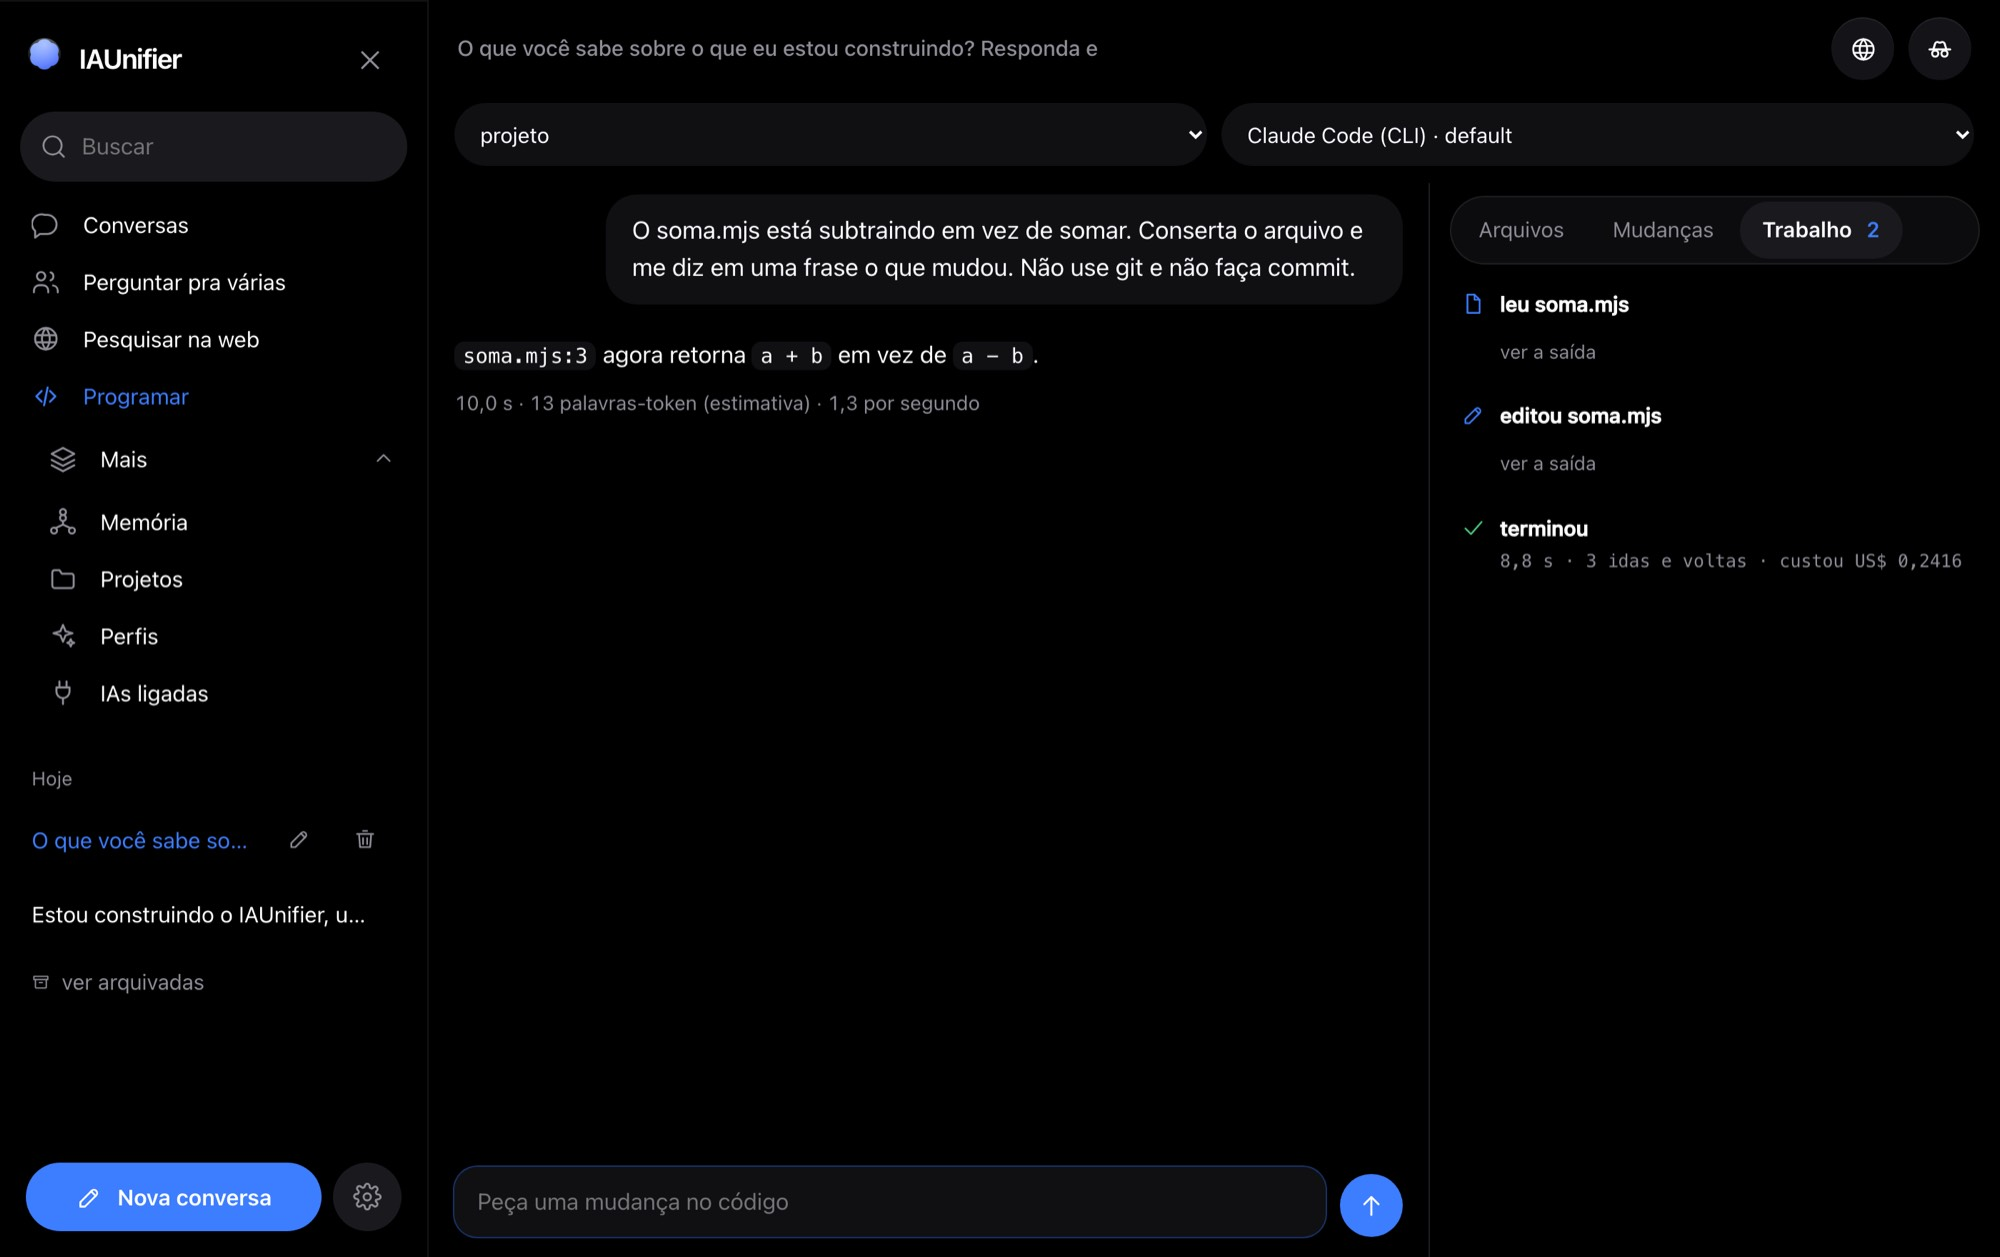
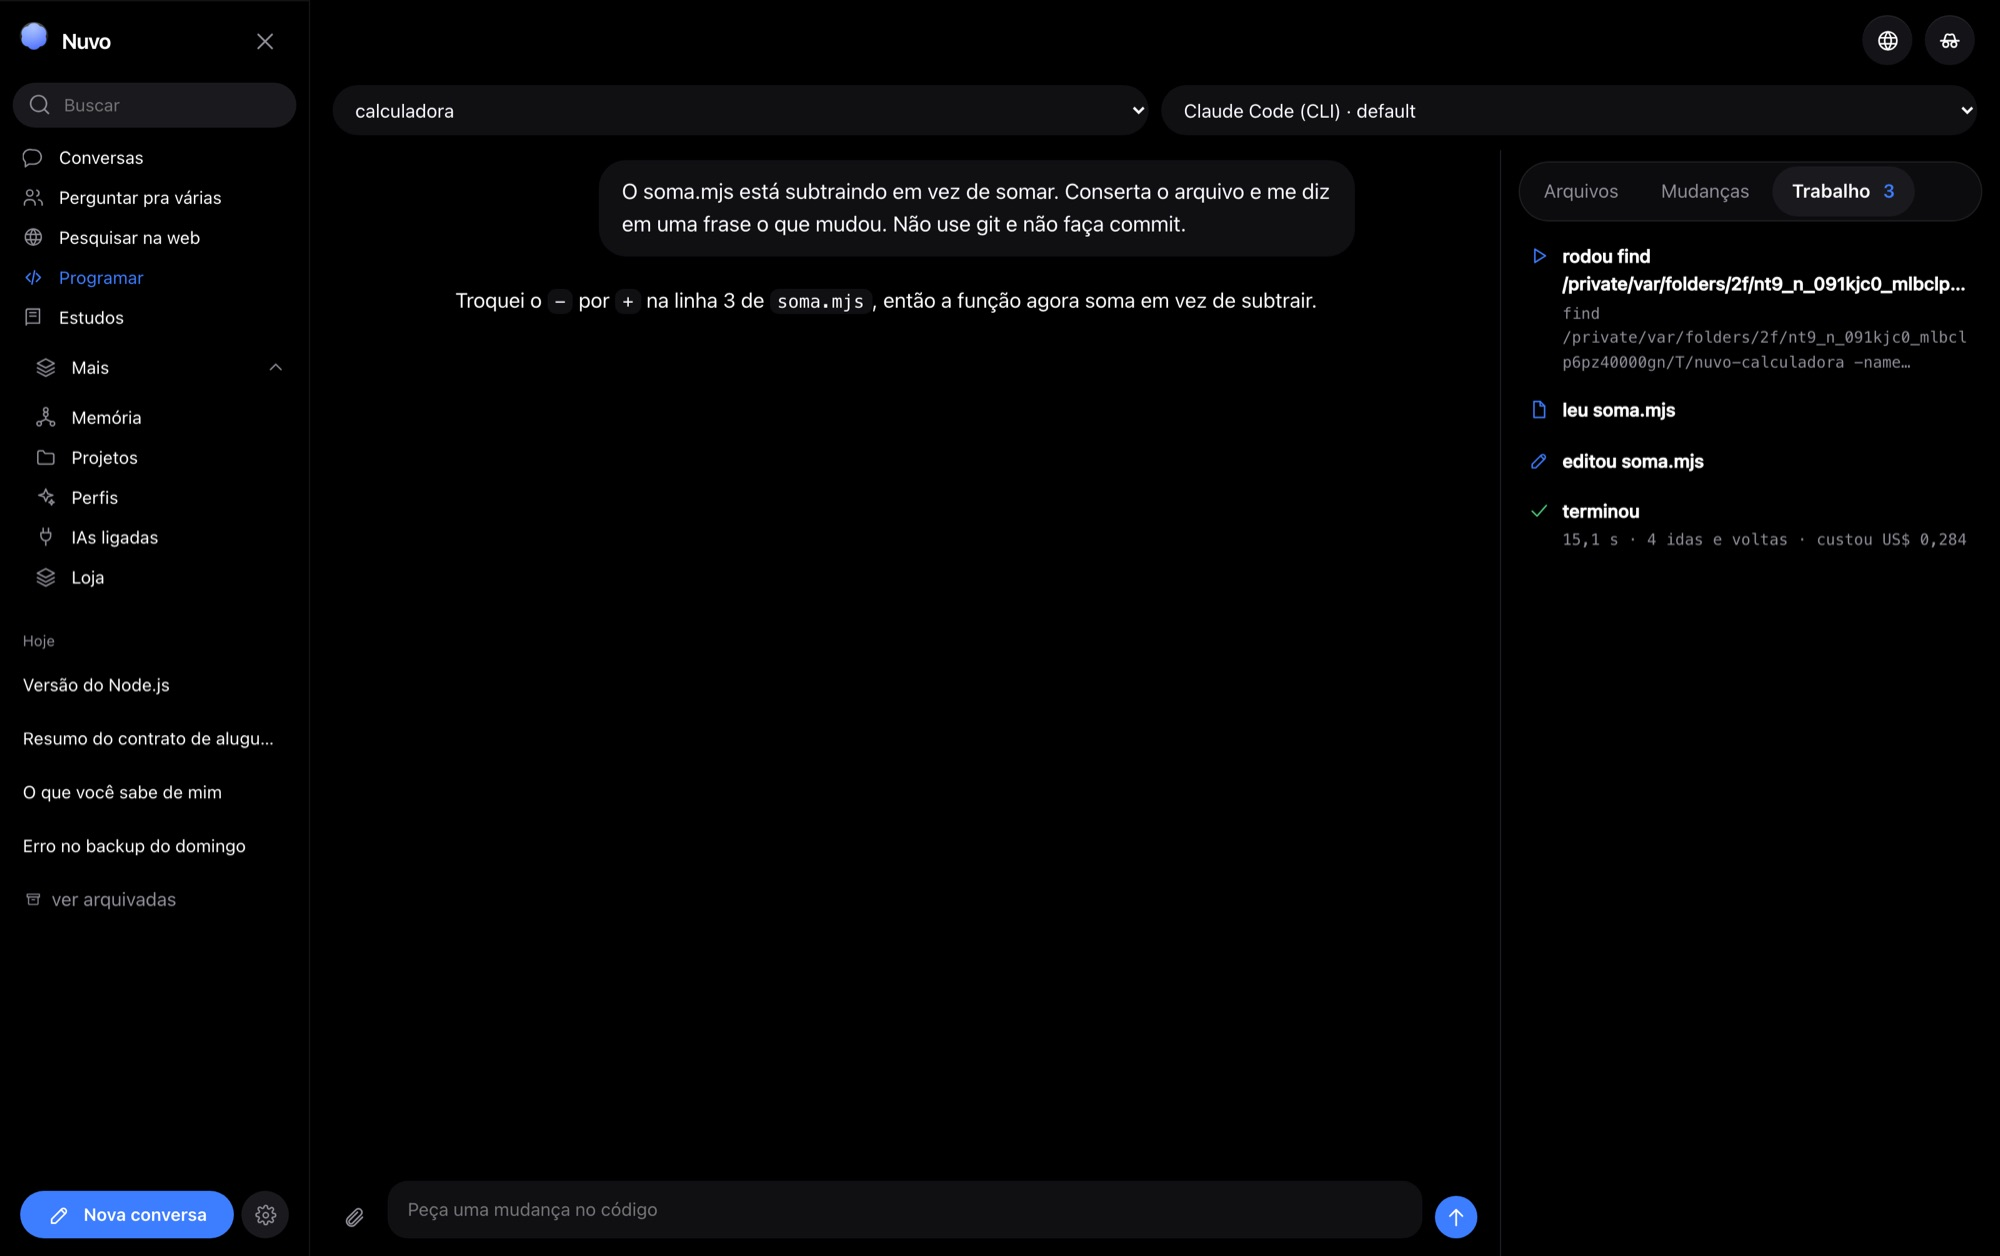
Keep the proof of browsing, and refresh the last two landing shots
The memory footer was persisted with the answer because the proof that shared
memory acted could not be the most volatile thing on screen. The same argument
had never been applied to browsing: the app claims it opened a real browser and
read the page, and the trail plus the sources vanished on the first reload. Both
are stored with the answer now and redrawn in the place they happened.

The closing line of a coding turn — how long, how many round trips, what it cost
— had the same problem: the rest of the work panel came back after a reload and
that line did not, because it was rebuilt as a tool step.

A long command in the work panel was set in bold with no limit, so a find over a
temp path took three lines and pushed the rest of the work off screen. Title
clamps at two lines, command at three, and opening the step shows it whole.

The two landing screenshots that still carried the old name are regenerated from
real sessions: the coding one fixes an actual bug in an actual file, the browser
one opens nodejs.org and comes back with the version and the address. Both
scripts live in build/capturas.py now instead of being done by hand.

diff --git a/web/app.js b/web/app.js
@@ -674,6 +674,37 @@ function addNote(text, cls = '', iconName = 'brain') {
 }
 
 /**
+ * O mesmo aviso, mas encaixado antes de uma resposta que já está na tela.
+ *
+ * `addNote` sempre põe no fim, que é o certo enquanto a resposta chega. Ao
+ * redesenhar o histórico, o fim é outro lugar: o aviso tem que voltar pro lugar
+ * onde ele aconteceu, que é logo acima da resposta a que ele pertence.
+ */
+function notaAntesDe(alvo, texto, cls = '', iconName = 'brain') {
+  const el = document.createElement('div');
+  el.className = `note ${cls}`;
+  el.innerHTML = `<span class="ico">${icon(iconName, 17)}</span><span>${texto}</span>`;
+  alvo.parentNode.insertBefore(el, alvo);
+  return el;
+}
+
+/** A trilha do agente de navegador, redesenhada a partir do que ficou gravado. */
+function trilhaGuardada(passos) {
+  const linhas = passos
+    .map((p) => {
+      const descricao =
+        p.papel === 'responder' ? t('montando a resposta') : escapeHtml(p.descricao || p.acao || '');
+      const modelo = p.modelo
+        ? `<span class="porque">${escapeHtml(t('IA: {modelo}', { modelo: p.modelo }))}</span>`
+        : '';
+      const porque = p.porque ? `<span class="porque">${escapeHtml(p.porque)}</span>` : '';
+      return `<div class="passo${p.erro ? ' ruim' : ''}">${descricao}${porque}${modelo}</div>`;
+    })
+    .join('');
+  return `<b>${t('navegando')}</b><div class="trilha">${linhas}</div>`;
+}
+
+/**
  * Rodapé da resposta: o que a memória entregou ao modelo neste turno. Uma
  * linha só; os fatos ficam a um toque, com a origem na coluna da direita.
  */
@@ -760,6 +791,27 @@ function renderMessages(focusId) {
       prependReasoning(el, meta.reasoning);
       // No histórico não existe quanto tempo o modelo pensou: só o rótulo.
       endReasoning(el, null);
+    }
+    // A navegação volta com a conversa pelo mesmo motivo da memória: o app
+    // promete que abriu um navegador de verdade e leu a página, e essa prova
+    // sumia no primeiro recarregamento.
+    if (meta.agente?.length) notaAntesDe(el, trilhaGuardada(meta.agente), 'agente', 'globe');
+    if (meta.web?.length) {
+      notaAntesDe(
+        el,
+        t('web: {lista}', {
+          lista: meta.web
+            .map(
+              (h) =>
+                `<a href="${escapeHtml(h.url)}" target="_blank" rel="noopener">[${h.n}] ${escapeHtml(
+                  String(h.title || h.url).slice(0, 60)
+                )}</a>`
+            )
+            .join(' · ')
+        }),
+        '',
+        'globe'
+      );
     }
     // O rodapé da memória volta com a conversa. Ele é a prova de que a memória
     // compartilhada agiu, e existia só enquanto a resposta chegava.

diff --git a/web/styles.css b/web/styles.css
@@ -1999,8 +1999,35 @@ button.icon { position: relative; }
 .cd-passo.correndo .ico { animation: cdPisca 1.1s var(--ease-io) infinite; }
 @keyframes cdPisca { 50% { opacity: 0.25; } }
 .cd-passo-txt { flex: 1 1 auto; min-width: 0; }
-.cd-passo b { display: block; font-size: 14.5px; font-weight: 550; color: var(--text); overflow-wrap: anywhere; }
-.cd-cmd { display: block; margin-top: 2px; font-family: var(--font-mono); font-size: 12.5px; color: var(--muted); overflow-wrap: anywhere; }
+/* Comando comprido — e comando de verdade é comprido — não pode virar um
+   parágrafo em negrito. Duas linhas no título, três no comando, e o resto some
+   nas reticências: o painel é a lista do que ela fez, não o terminal. */
+.cd-passo b {
+  display: -webkit-box;
+  -webkit-line-clamp: 2;
+  line-clamp: 2;
+  -webkit-box-orient: vertical;
+  overflow: hidden;
+  font-size: 14.5px;
+  font-weight: 550;
+  color: var(--text);
+  overflow-wrap: anywhere;
+}
+.cd-cmd {
+  display: -webkit-box;
+  -webkit-line-clamp: 3;
+  line-clamp: 3;
+  -webkit-box-orient: vertical;
+  overflow: hidden;
+  margin-top: 2px;
+  font-family: var(--font-mono);
+  font-size: 12.5px;
+  color: var(--muted);
+  overflow-wrap: anywhere;
+}
+/* Aberto, o passo mostra o comando inteiro: quem clicou na saída quer ler. */
+.cd-passo:has(.cd-saida[open]) b,
+.cd-passo:has(.cd-saida[open]) .cd-cmd { -webkit-line-clamp: unset; line-clamp: unset; display: block; }
 
 .cd-saida { margin-top: 6px; }
 .cd-saida > summary { display: inline-flex; align-items: center; min-height: 32px; cursor: pointer; list-style: none; font-size: 13.5px; color: var(--muted); }

diff --git a/build/capturas.py b/build/capturas.py
@@ -175,7 +175,15 @@ def roteiro_programar(idioma):
     mostra o app editando arquivo, e apontar pra pasta de alguém seria fotografar
     o trabalho dessa pessoa.
     """
-    pasta = Path(tempfile.mkdtemp(prefix='nuvo-codigo-'))
+    # Pasta com nome curto de propósito: o painel mostra o comando que a IA
+    # rodou, e um caminho de `mkdtemp` ocupa três linhas de captura com um
+    # endereço que não quer dizer nada pra quem olha a imagem.
+    # `/tmp` quando existe: no macOS o temporário do usuário é
+    # `/var/folders/2f/nt9…/T/`, e esse endereço sozinho enche o painel.
+    raiz = Path('/tmp') if Path('/tmp').is_dir() else Path(tempfile.gettempdir())
+    pasta = raiz / 'nuvo-calculadora'
+    shutil.rmtree(pasta, ignore_errors=True)
+    pasta.mkdir(parents=True)
     (pasta / 'soma.mjs').write_text(
         '// Soma dois números.\n'
         'export function soma(a, b) {\n'
